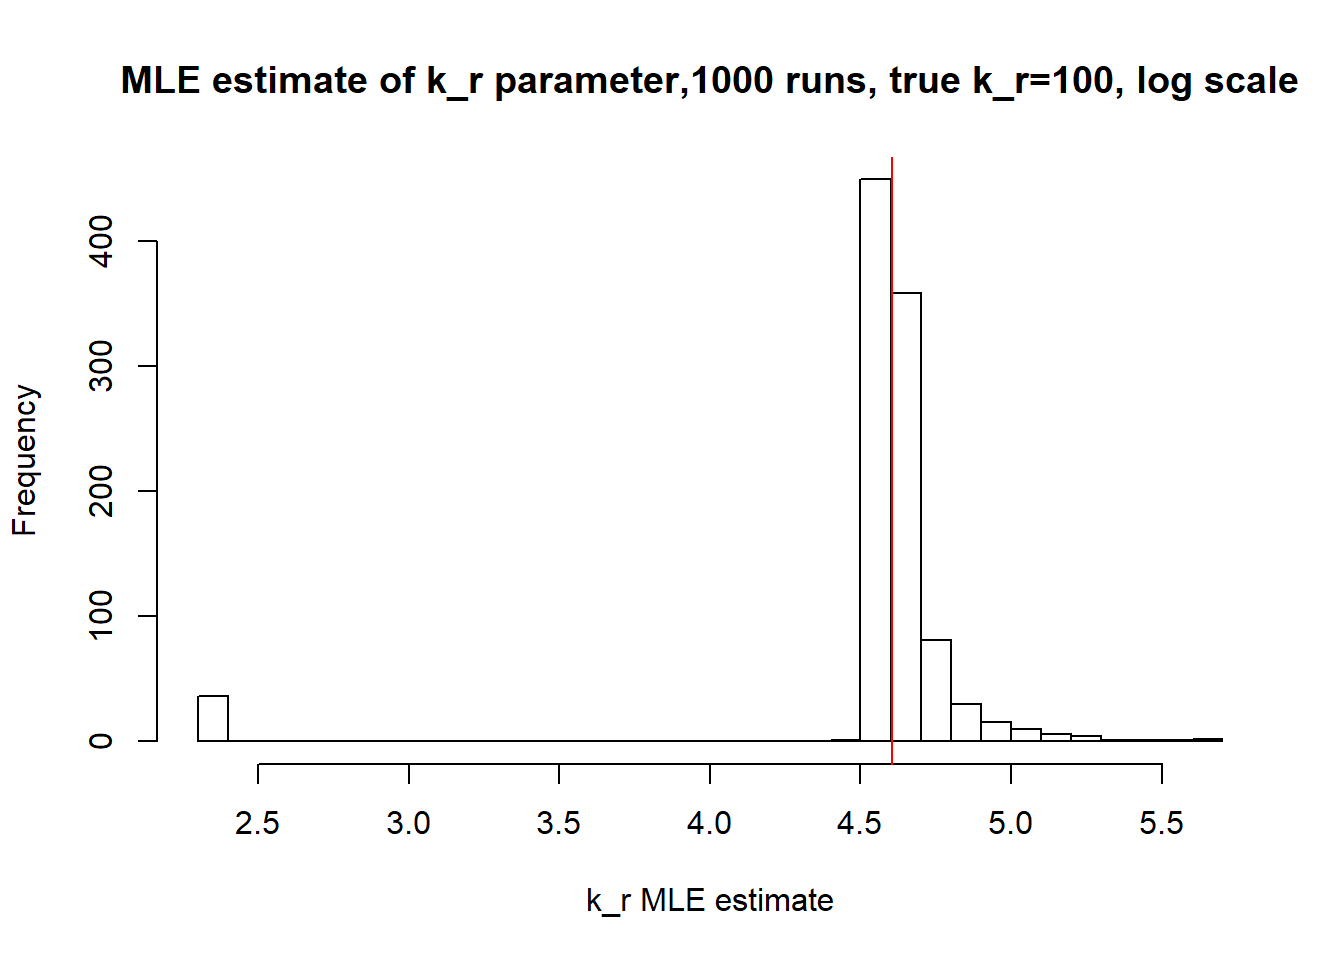
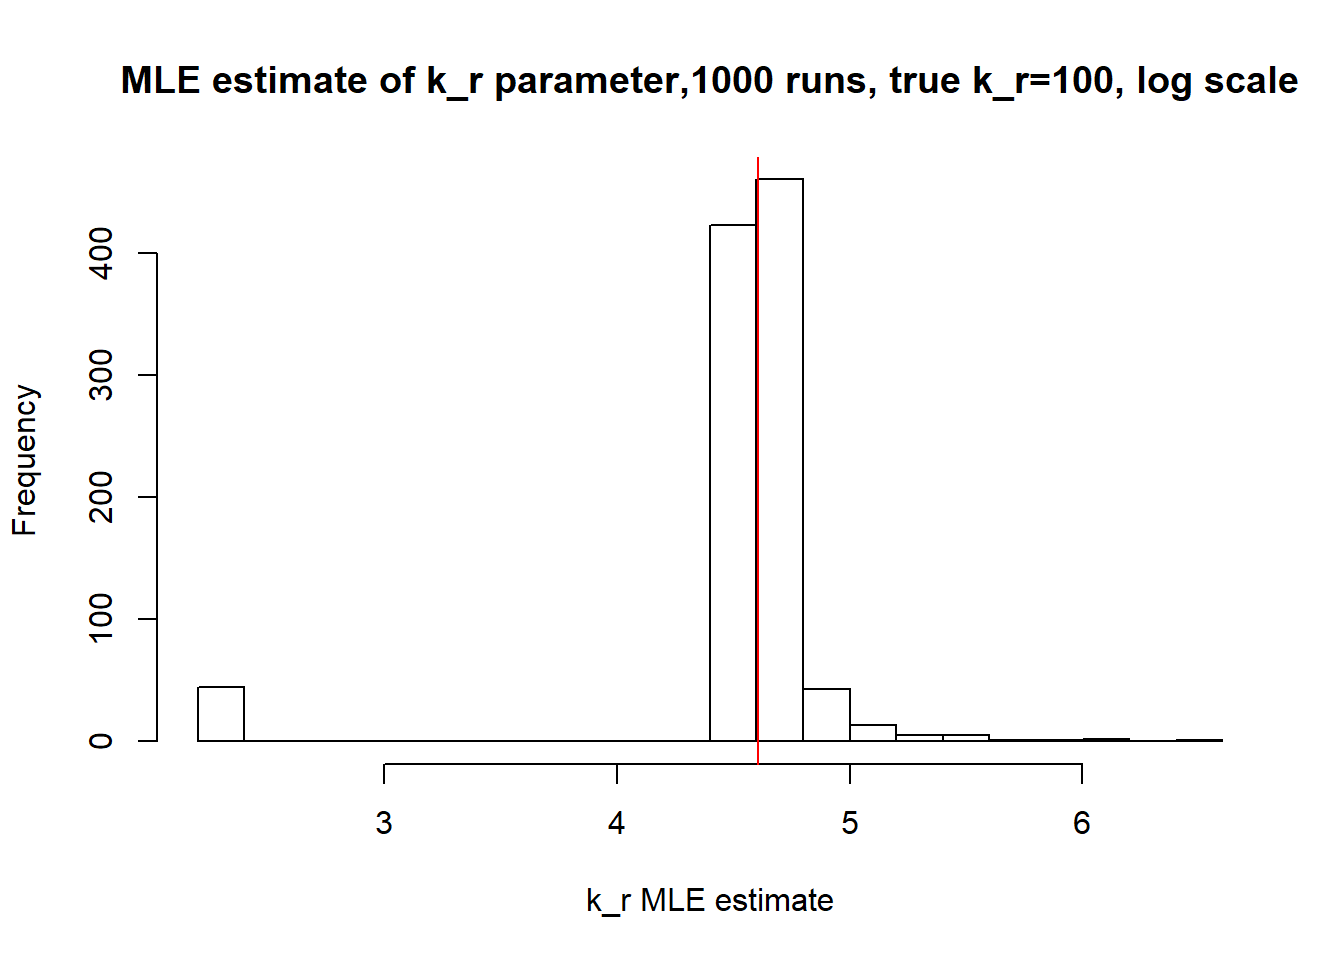
Build site.

diff --git a/docs/MLE_estimates.html b/docs/MLE_estimates.html
@@ -344,7 +344,7 @@ div.section {
 <div class="tab-content">
 <div id="summary" class="tab-pane fade in active">
 <p>
-<strong>Last updated:</strong> 2020-01-14
+<strong>Last updated:</strong> 2020-01-15
 </p>
 <p>
 <strong>Checks:</strong> <span class="glyphicon glyphicon-ok text-success" aria-hidden="true"></span> 6 <span class="glyphicon glyphicon-exclamation-sign text-danger" aria-hidden="true"></span> 1
@@ -459,10 +459,10 @@ analysis/MLE.py
 <div class="panel panel-default">
 <div class="panel-heading">
 <p class="panel-title">
-<a data-toggle="collapse" data-parent="#workflowr-checks" href="#strongRepositoryversionstrongahrefhttpsgithubcomMargareth2407ThesissingleRNAtreecd0b5c9041db5583da4be1874607cb1df6b4a820targetblankcd0b5c9a"> <span class="glyphicon glyphicon-ok text-success" aria-hidden="true"></span> <strong>Repository version:</strong> <a href="https://github.com/Margareth2407/Thesis_single_RNA/tree/cd0b5c9041db5583da4be1874607cb1df6b4a820" target="_blank">cd0b5c9</a> </a>
+<a data-toggle="collapse" data-parent="#workflowr-checks" href="#strongRepositoryversionstrongahrefhttpsgithubcomMargareth2407ThesissingleRNAtree1a2e6aa5eba1ecf6d350d9be627a138f805e3dectargetblank1a2e6aaa"> <span class="glyphicon glyphicon-ok text-success" aria-hidden="true"></span> <strong>Repository version:</strong> <a href="https://github.com/Margareth2407/Thesis_single_RNA/tree/1a2e6aa5eba1ecf6d350d9be627a138f805e3dec" target="_blank">1a2e6aa</a> </a>
 </p>
 </div>
[2 lines of base64/hex data omitted]
 <div class="panel-body">
 <p>
 Great! You are using Git for version control. Tracking code development and connecting the code version to the results is critical for reproducibility. The version displayed above was the version of the Git repository at the time these results were generated. <br><br> Note that you need to be careful to ensure that all relevant files for the analysis have been committed to Git prior to generating the results (you can use <code>wflow_publish</code> or <code>wflow_git_commit</code>). workflowr only checks the R Markdown file, but you know if there are other scripts or data files that it depends on. Below is the status of the Git repository when the results were generated:
@@ -473,12 +473,12 @@ Ignored files:
     Ignored:    .Rhistory
     Ignored:    analysis/.RData
     Ignored:    analysis/.Rhistory
+    Ignored:    analysis/figure/
 
 Unstaged changes:
     Modified:   Data_sim.Rmd
     Deleted:    analysis/Data_sim.Rmd
     Deleted:    analysis/MLE_bootstrap_N_variability.Rmd
-    Modified:   analysis/MLE_bootstrap_variability_by_sample_size.Rmd
 
 </code></pre>
 <p>
@@ -521,44 +521,44 @@ There are no past versions. Publish this analysis with <code>wflow_publish()</co
 <div id="i-small-k_on-and-k_off-case" class="section level2">
 <h2>I) Small <span class="math inline">\(k_{on}\)</span> and <span class="math inline">\(k_{off}\)</span> case:</h2>
 <p><img src="figure/MLE_estimates.Rmd/unnamed-chunk-2-1.png" width="672" style="display: block; margin: auto;" /></p>
-<pre><code>[1] &quot;true k_on is 0.1; k_on mean 0.102 k_on median 0.1&quot;</code></pre>
+<pre><code>[1] &quot;true k_on is 0.1; k_on mean 0.101 k_on median 0.099&quot;</code></pre>
 <p><img src="figure/MLE_estimates.Rmd/unnamed-chunk-2-2.png" width="672" style="display: block; margin: auto;" /></p>
-<pre><code>[1] &quot;true k_off is 0.1; k_off mean 0.101 k_off median 0.099&quot;</code></pre>
+<pre><code>[1] &quot;true k_off is 0.1; k_off mean 0.101 k_off median 0.098&quot;</code></pre>
 <p><img src="figure/MLE_estimates.Rmd/unnamed-chunk-2-3.png" width="672" style="display: block; margin: auto;" /></p>
-<pre><code>[1] &quot;true k_r is 100; k_r mean 99.954 k_r median 99.931&quot;</code></pre>
+<pre><code>[1] &quot;true k_r is 100; k_r mean 100.068 k_r median 100.016&quot;</code></pre>
 <p><img src="figure/MLE_estimates.Rmd/unnamed-chunk-2-4.png" width="672" style="display: block; margin: auto;" /><img src="figure/MLE_estimates.Rmd/unnamed-chunk-2-5.png" width="672" style="display: block; margin: auto;" /><img src="figure/MLE_estimates.Rmd/unnamed-chunk-2-6.png" width="672" style="display: block; margin: auto;" /></p>
 <p>Small <span class="math inline">\(k_{on}\)</span> and <span class="math inline">\(k_{off}\)</span> leads to bimodal distribution where population of cells with high expression level is visibly separated from population of cells without expression. Such separation allows us to identify parameters very clearly and we will see more proofs of that in a future materials. Notice how both mean and median of the MLE estimates are close to the true value.</p>
 </div>
 <div id="ii-large-k_on-and-k_off-case" class="section level2">
 <h2>II) Large <span class="math inline">\(k_{on}\)</span> and <span class="math inline">\(k_{off}\)</span> case:</h2>
 <p><img src="figure/MLE_estimates.Rmd/unnamed-chunk-3-1.png" width="672" style="display: block; margin: auto;" /></p>
-<pre><code>[1] &quot;true k_on is 10; k_on mean 42.745 k_on median 30.747&quot;</code></pre>
+<pre><code>[1] &quot;true k_on is 50; k_on mean 44.97 k_on median 35.337&quot;</code></pre>
 <p><img src="figure/MLE_estimates.Rmd/unnamed-chunk-3-2.png" width="672" style="display: block; margin: auto;" /></p>
-<pre><code>[1] &quot;true k_off is 10; k_off mean 107.632 k_off median 13.999&quot;</code></pre>
+<pre><code>[1] &quot;true k_off is 50; k_off mean 124.038 k_off median 18.503&quot;</code></pre>
 <p><img src="figure/MLE_estimates.Rmd/unnamed-chunk-3-3.png" width="672" style="display: block; margin: auto;" /></p>
-<pre><code>[1] &quot;true k_r is 100; k_r mean 125.306 k_r median 71.99&quot;</code></pre>
+<pre><code>[1] &quot;true k_r is 100; k_r mean 135.279 k_r median 74.731&quot;</code></pre>
 <p><img src="figure/MLE_estimates.Rmd/unnamed-chunk-3-4.png" width="672" style="display: block; margin: auto;" /><img src="figure/MLE_estimates.Rmd/unnamed-chunk-3-5.png" width="672" style="display: block; margin: auto;" /><img src="figure/MLE_estimates.Rmd/unnamed-chunk-3-6.png" width="672" style="display: block; margin: auto;" /></p>
 <p>Large <span class="math inline">\(k_{on}\)</span> and <span class="math inline">\(k_{off}\)</span> case lead to Poisson or negative binomial distribution which means big population of highly expressed cells and small population of non-expressed cells. If cell quickly shift between active and non-active states, we cannot distiguish that from cell being constantly in active state which leads to unidentifiable solution. And indeed if we take a look on MLE estimates histogramms, means and medians we can observe that estimated parameters are not close to the true value in majority of cases.</p>
 </div>
 <div id="iii-large-value-of-k_off-and-small-k_on-case" class="section level2">
 <h2>III) Large value of <span class="math inline">\(k_{off}\)</span> and small <span class="math inline">\(k_{on}\)</span> case:</h2>
 <p><img src="figure/MLE_estimates.Rmd/unnamed-chunk-4-1.png" width="672" style="display: block; margin: auto;" /></p>
-<pre><code>[1] &quot;true k_on is 1; k_on mean 0.98 k_on median 0.953&quot;</code></pre>
+<pre><code>[1] &quot;true k_on is 1; k_on mean 0.98 k_on median 0.954&quot;</code></pre>
 <p><img src="figure/MLE_estimates.Rmd/unnamed-chunk-4-2.png" width="672" style="display: block; margin: auto;" /></p>
-<pre><code>[1] &quot;true k_off is 10; k_off mean 36.621 k_off median 6.385&quot;</code></pre>
+<pre><code>[1] &quot;true k_off is 10; k_off mean 44.467 k_off median 6.995&quot;</code></pre>
 <p><img src="figure/MLE_estimates.Rmd/unnamed-chunk-4-3.png" width="672" style="display: block; margin: auto;" /></p>
-<pre><code>[1] &quot;true k_r is 100; k_r mean 305.014 k_r median 70.686&quot;</code></pre>
+<pre><code>[1] &quot;true k_r is 100; k_r mean 364.979 k_r median 75.556&quot;</code></pre>
 <p><img src="figure/MLE_estimates.Rmd/unnamed-chunk-4-4.png" width="672" style="display: block; margin: auto;" /><img src="figure/MLE_estimates.Rmd/unnamed-chunk-4-5.png" width="672" style="display: block; margin: auto;" /><img src="figure/MLE_estimates.Rmd/unnamed-chunk-4-6.png" width="672" style="display: block; margin: auto;" /></p>
 <p>Large value if <span class="math inline">\(k_{off}\)</span> and small <span class="math inline">\(k_{on}\)</span> scenario results in majority of cells having zero or low expression levels. MLE method estimates <span class="math inline">\(k_{on}\)</span> accurately by both mean and median while <span class="math inline">\(k_{off}\)</span> and <span class="math inline">\(k_{r}\)</span> are unidentifiable.</p>
 </div>
 <div id="iv-small-value-of-k_off-and-big-k_on" class="section level2">
 <h2>IV) Small value of <span class="math inline">\(k_{off}\)</span> and big <span class="math inline">\(k_{on}\)</span></h2>
 <p><img src="figure/MLE_estimates.Rmd/unnamed-chunk-5-1.png" width="672" style="display: block; margin: auto;" /></p>
-<pre><code>[1] &quot;true k_on is 10; k_on mean 13.895 k_on median 10&quot;</code></pre>
+<pre><code>[1] &quot;true k_on is 10; k_on mean 14.426 k_on median 10&quot;</code></pre>
 <p><img src="figure/MLE_estimates.Rmd/unnamed-chunk-5-2.png" width="672" style="display: block; margin: auto;" /></p>
-<pre><code>[1] &quot;true k_off is 1; k_off mean 4.483 k_off median 1.067&quot;</code></pre>
+<pre><code>[1] &quot;true k_off is 1; k_off mean 6.253 k_off median 1.129&quot;</code></pre>
 <p><img src="figure/MLE_estimates.Rmd/unnamed-chunk-5-3.png" width="672" style="display: block; margin: auto;" /></p>
-<pre><code>[1] &quot;true k_r is 100; k_r mean 101.261 k_r median 99.632&quot;</code></pre>
+<pre><code>[1] &quot;true k_r is 100; k_r mean 102.191 k_r median 99.923&quot;</code></pre>
 <p><img src="figure/MLE_estimates.Rmd/unnamed-chunk-5-4.png" width="672" style="display: block; margin: auto;" /><img src="figure/MLE_estimates.Rmd/unnamed-chunk-5-5.png" width="672" style="display: block; margin: auto;" /><img src="figure/MLE_estimates.Rmd/unnamed-chunk-5-6.png" width="672" style="display: block; margin: auto;" /></p>
 <p>Small value of <span class="math inline">\(k_{off}\)</span> and big <span class="math inline">\(k_{on}\)</span> produces a population of cells where majority of observation have high expression level with some quantity oflowly expressed cells (we see it as a long left tail on the distribution graph). Even though the population is not clearly separated as in case I (small <span class="math inline">\(k_{on}/k_{off}\)</span>), we still are able to correctly estimate parameters by MLE method. The solution is not perfect, as we still see some overestimation of parameters on the histogramm, but the meadian is quite close to the true value.</p>
 <p>Ref. <a href="https://www.nature.com/articles/s41586-018-0836-1" class="uri">https://www.nature.com/articles/s41586-018-0836-1</a></p>
